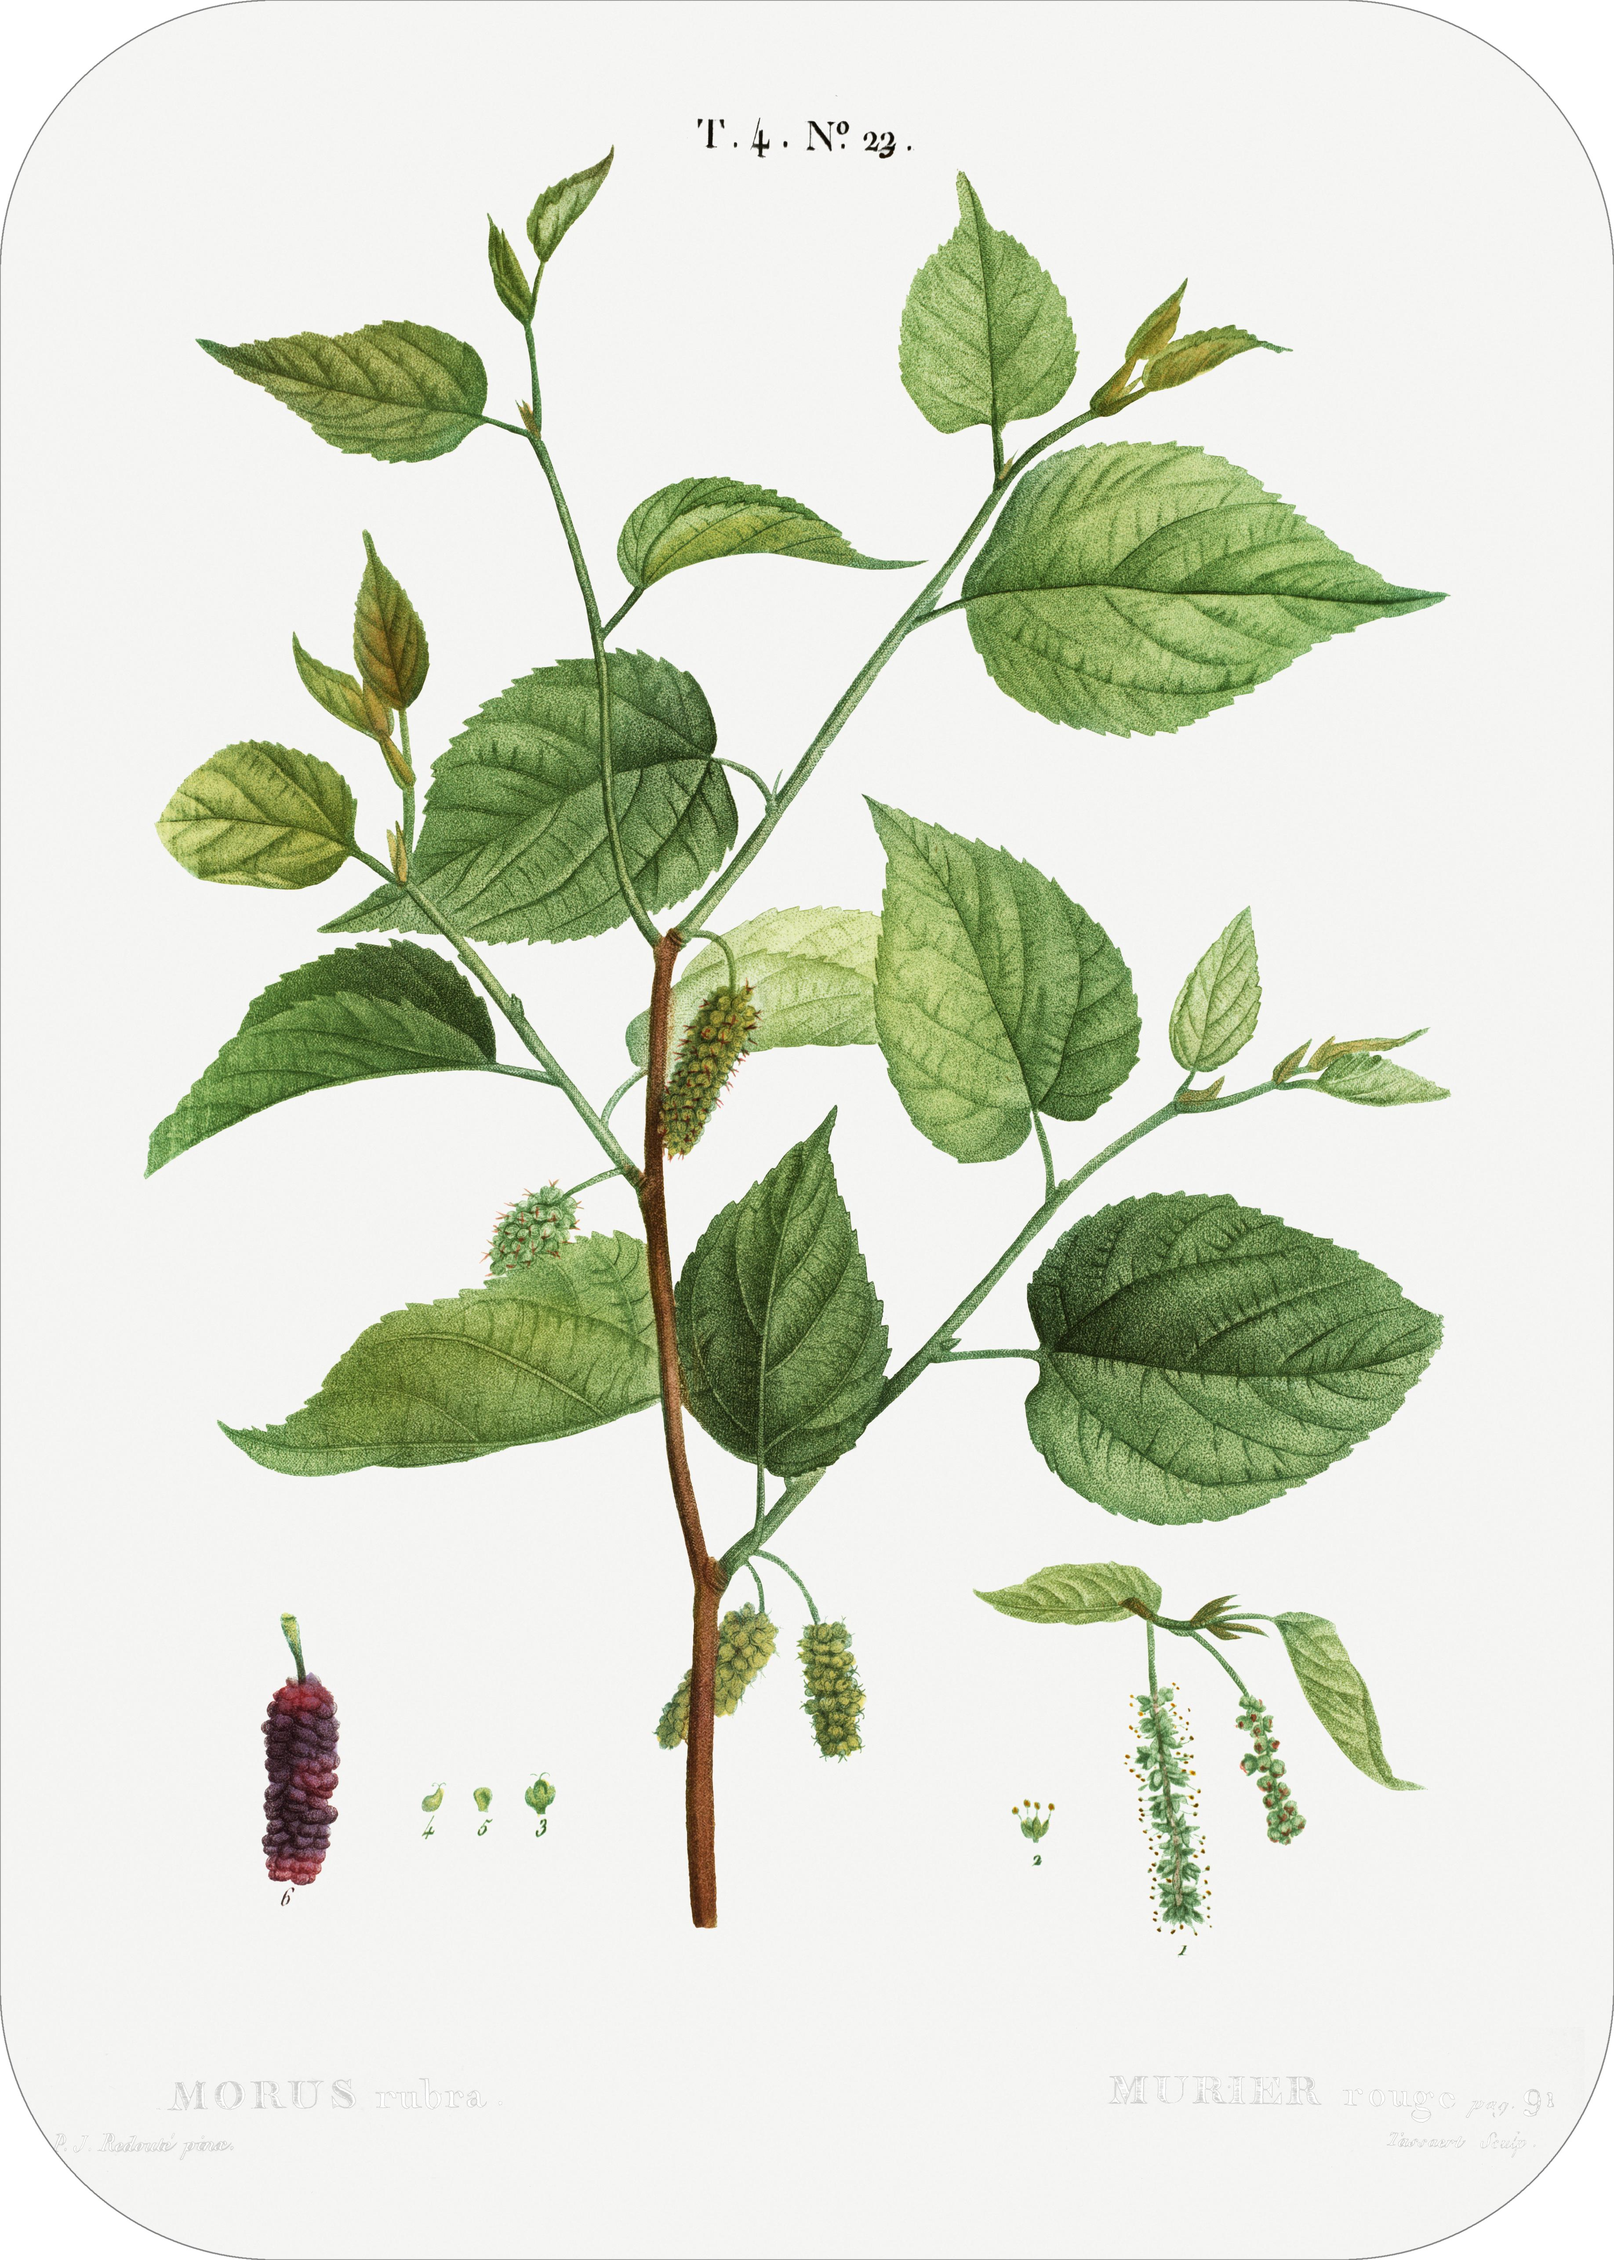
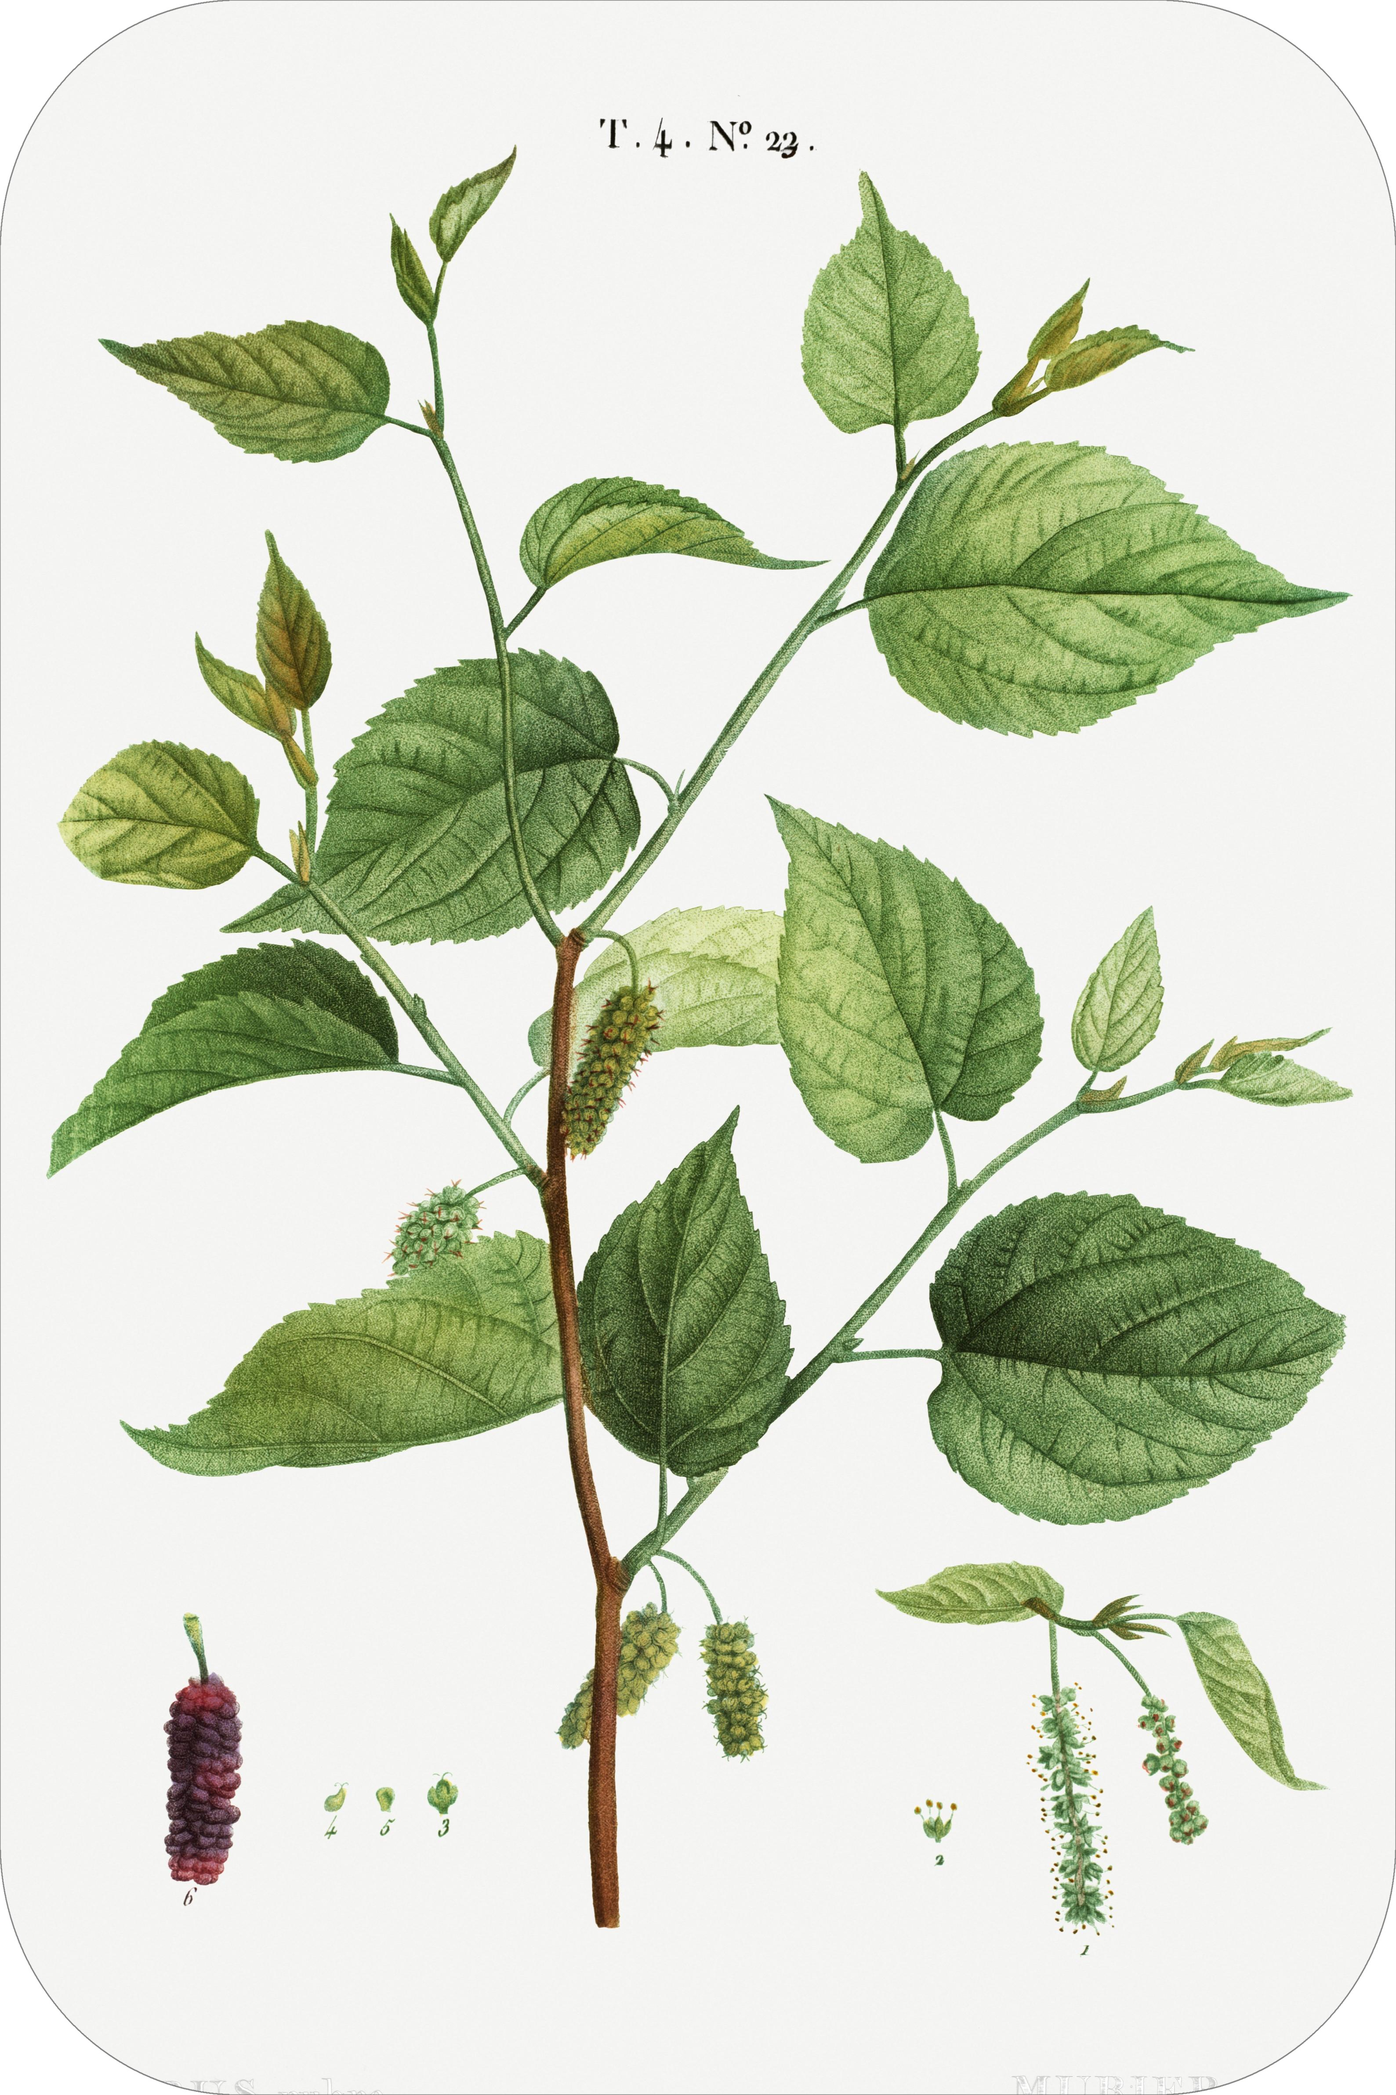
Add background image and error messages

diff --git a/botanical_flashcard_creator.py b/botanical_flashcard_creator.py
@@ -31,13 +31,14 @@ def create_flashcards(df: pd.DataFrame, font: Font, italic_font: Font, pageWidth
     image_border_colour = X11Color.LIGHT_GRAY
     fromPageEdgeToCardOuterEdgeWidth = int((divided_page - image_width)/2)
     fromPageEdgeToCardOuterEdgeHeight = int((page_height - image_height)/2)
-    internal_padding = 23
-    bottom_padding = 7   
+    xy_padding = 23
+    bottom_padding = 10   
     top_padding = 35  
 
     print("Creating cards.")
     
     for index, row in df.iterrows():
+        print(f"Creating card for {str(row['genus'])}")
         current_page: Page = Page(page_height, divided_page)
         document.append_page(current_page)
         layout: PageLayout = SingleColumnLayout(current_page, margin_left=fromPageEdgeToCardOuterEdgeWidth,margin_right=fromPageEdgeToCardOuterEdgeWidth, margin_bottom=fromPageEdgeToCardOuterEdgeHeight, margin_top=fromPageEdgeToCardOuterEdgeHeight)
@@ -49,13 +50,13 @@ def create_flashcards(df: pd.DataFrame, font: Font, italic_font: Font, pageWidth
             table_row_count = table_row_count + 1
 
         layout_table = FixedColumnWidthTable(number_of_columns=1, number_of_rows=table_row_count)
-        layout_table.append_layout_element(add_family_name(internal_padding, font, row, top_padding, bottom_padding, 11))
-        layout_table.append_layout_element(add_species_full_name(internal_padding, font, italic_font, row, 4, 17))
+        layout_table.append_layout_element(add_family_name(xy_padding, font, row, top_padding, bottom_padding, 11))
+        layout_table.append_layout_element(add_species_full_name(xy_padding, font, italic_font, row, 4, 17))
         if isinstance(row['exampleSpecies'],str):
-                layout_table.append_layout_element(add_examples(internal_padding, italic_font, row, 0, 8))       
-        layout_table.append_layout_element(add_common_names(internal_padding, font, row, 9, 12, 13))
-        layout_table.append_layout_element(add_quote(internal_padding, font, row, 0, 8))
-        layout_table.append_layout_element(add_short_reference(internal_padding, font, italic_font, row, 0, 7))
+                layout_table.append_layout_element(add_examples(xy_padding, italic_font, row, 0, 8))       
+        layout_table.append_layout_element(add_common_names(xy_padding, font, row, 9, 12, 13))
+        layout_table.append_layout_element(add_quote(xy_padding, font, row, 2, 7))
+        layout_table.append_layout_element(add_short_reference(xy_padding, font, italic_font, row, 0, 7))
         layout_table.no_borders()
 
         try:
@@ -142,10 +143,20 @@ def add_front_image(row, image_width, image_height, image_border_colour, image_b
     return image        
 
 def add_short_reference(internal_padding, font, italic_font, row, bottom_padding, font_size):
-    quoteAuthorFirstName = Chunk(clean_text(str(row['quoteAuthorFirstName'])) + " ", font_size=font_size, font=font)
-    quoteAuthorLastName = Chunk( clean_text(str(row['quoteAuthorLastName'])), font_size=font_size, font=font)
-    quoteYearPublished = Chunk(" ("+ clean_text(str(row['quoteYearPublished'])) + "), ", font_size=font_size, font=font)
-    quotePublicationTitle = Chunk(clean_text(str(row['quotePublicationTitle'])).title(), font_size=font_size, font=italic_font)
+
+    quoteAuthorFirstName = Chunk("")
+    quoteAuthorLastName = Chunk("")
+    quoteYearPublished = Chunk("")
+    quotePublicationTitle = Chunk("")
+
+    if isinstance(row['quoteAuthorFirstName'], str):
+        quoteAuthorFirstName = Chunk(clean_text(row['quoteAuthorFirstName']) + " ", font_size=font_size, font=font)
+    if isinstance(row['quoteAuthorLastName'], str):
+        quoteAuthorLastName = Chunk( clean_text(row['quoteAuthorLastName']), font_size=font_size, font=font)
+    if isinstance(row['quotePublicationTitle'], str):
+        quotePublicationTitle = Chunk(", " + clean_text(row['quotePublicationTitle']).title(), font_size=font_size, font=italic_font)
+    if isinstance(row['quoteYearPublished'], str):
+        quoteYearPublished = Chunk(" ("+ clean_text(row['quoteYearPublished']) + ") ", font_size=font_size, font=font)
 
     paragraph = HeterogeneousParagraph([quoteAuthorFirstName, quoteAuthorLastName, quoteYearPublished, quotePublicationTitle],
             text_alignment=LayoutElement.TextAlignment.LEFT,
@@ -155,12 +166,15 @@ def add_short_reference(internal_padding, font, italic_font, row, bottom_padding
     
     return paragraph
 
+
 def add_quote(internal_padding, font, row, bottomPadding, font_size):
     # TODO write a function for splitting quotes so that species names are correctly italised
     open_and_closing_quote_mark = Chunk('"', font=font, font_size= font_size)
     quote = clean_text(str(row['quote']))
-    if len(quote) > 800: #truncate if too long
-        quote = quote[:800] + "..."
+    max_quote_length = 900
+
+    if len(quote) > max_quote_length: #truncate if too long
+        quote = quote[:max_quote_length] + "..."
     quote_chunk = Chunk(quote, font=font, font_color=X11Color.BLACK, font_size = font_size)
 
     paragraph = HeterogeneousParagraph([open_and_closing_quote_mark,quote_chunk,open_and_closing_quote_mark],
@@ -172,9 +186,23 @@ def add_quote(internal_padding, font, row, bottomPadding, font_size):
     return paragraph
 
 def add_common_names(internal_padding, font, row, top_padding, bottom_padding, font_size):
-    commonNames = clean_text("".join(list(str(row['commonNames'])))).capitalize()
+
+    if not isinstance(row['commonNames'], str):
+        return Paragraph(text='')
+
+    common_names_list : list = row['commonNames'].split(",")
+    capitalised_common_names_list : list = list()
+    
+    for i in range(0, len(common_names_list)):
+        common_name : str = common_names_list[i].strip()
+        # Capitalise first common name in the list
+        if i == 0:
+            common_name = common_name[0].upper() + common_name[1:]
+        capitalised_common_names_list.append(common_name)
+
+    capitalised_common_names : str = clean_text(", ".join(capitalised_common_names_list))
     paragraph =  Paragraph(
-            commonNames,
+            capitalised_common_names,
             font_color=X11Color.BLACK,
             font=font,
             text_alignment=LayoutElement.TextAlignment.CENTERED,

diff --git a/image_manipulation.py b/image_manipulation.py
@@ -1,8 +1,9 @@
-from PIL import Image 
+from PIL import Image, ImageFile 
 import pathlib
 import pandas as pd
 
 imageSuffixes = ['.tif','.tiff','.jpeg','.jpg','.png','.webp','.gif']
+overlay_image_filepath = 'images\back\background_image.jpg'
 
 def give_image_rounded_corners(new_filepath, original_filepath, corner_mask_filepath, image_name: str):
 
@@ -22,6 +23,31 @@ def give_image_rounded_corners(new_filepath, original_filepath, corner_mask_file
         if not pathlib.Path(original_image_file_path).exists():
             print(f"File {original_image_file_path} does not exist.")
         print(f"Something went wrong with giving the {original_image_file_path} image rounded corners. Rounded corners skipped.")
+
+def add_overlay(new_filepath, original_filepath, overlay_image_filepath : str, image_name: str, alpha : int):
+        
+    image_name = get_image_name_with_suffix(original_filepath, image_name)
+    original_image_file_path = original_filepath + image_name
+
+    try:
+        image = Image.open(pathlib.Path(original_image_file_path)) 
+        overlay_image = Image.open(pathlib.Path(overlay_image_filepath))
+
+        image_width, image_height = image.size
+        overlay_image = overlay_image.resize((image_width,image_height))        
+        overlay_image = overlay_image.convert("RGBA")
+        overlay_image.putalpha(alpha)  
+
+        image.paste(overlay_image, (0,0), mask=overlay_image)
+        
+        if image_name.split('.')[1] != 'png':
+            image_name = image_name.split('.')[0] + ".png"
+        image.save(pathlib.Path(new_filepath + image_name))
+    except:
+        if not pathlib.Path(original_image_file_path).exists():
+            print(f"File {original_image_file_path} does not exist.")
+        print(f"Something went wrong with giving the {original_image_file_path} image rounded corners. Rounded corners skipped.")
+
 
 def get_image_name_with_suffix(filepath: str, image_name: str) -> str:
     if "." in image_name :

diff --git a/Main.py b/Main.py
@@ -3,10 +3,9 @@ from borb.pdf import (
     Font,
 )
 import pandas as pd
-
 from reference_page import add_reference_pages
 from image_manipulation import give_image_rounded_corners
-from flashcard_creator import create_flashcards
+from botanical_flashcard_creator import create_flashcards
 from image_manipulation import make_images_transparent
 from pdf_transformer import transform_pdf_into_multiple_pages
 
@@ -22,7 +21,7 @@ filepath_original_images = "images/originals/"
 rounded_corners_filepath = "images/originals/cornermask.png"
 one_card_per_page_output_file_name = "one_card_per_page_flashcards"
 cards_per_A4_page = 3
-chosen_transparency = 75 # approx quarter alpha (255 is no transparency at all, 0 is fully transparent)
+chosen_transparency = 125 # approx half alpha (255 is no transparency at all, 0 is fully transparent)
 page_width = 842 #A4 width
 page_height = 595 #A4 height
 

diff --git a/text_helper.py b/text_helper.py
@@ -1,6 +1,6 @@
 
 def clean_text(input_string: str):
-    cleaned_input : str = str.replace(input_string,"‘","'")
+    cleaned_input : str = str.replace(input_string,"‘","'").replace("”","\"").strip()
     return cleaned_input
 
 def get_species_full_name_or_plural(genus : str, species : str):
